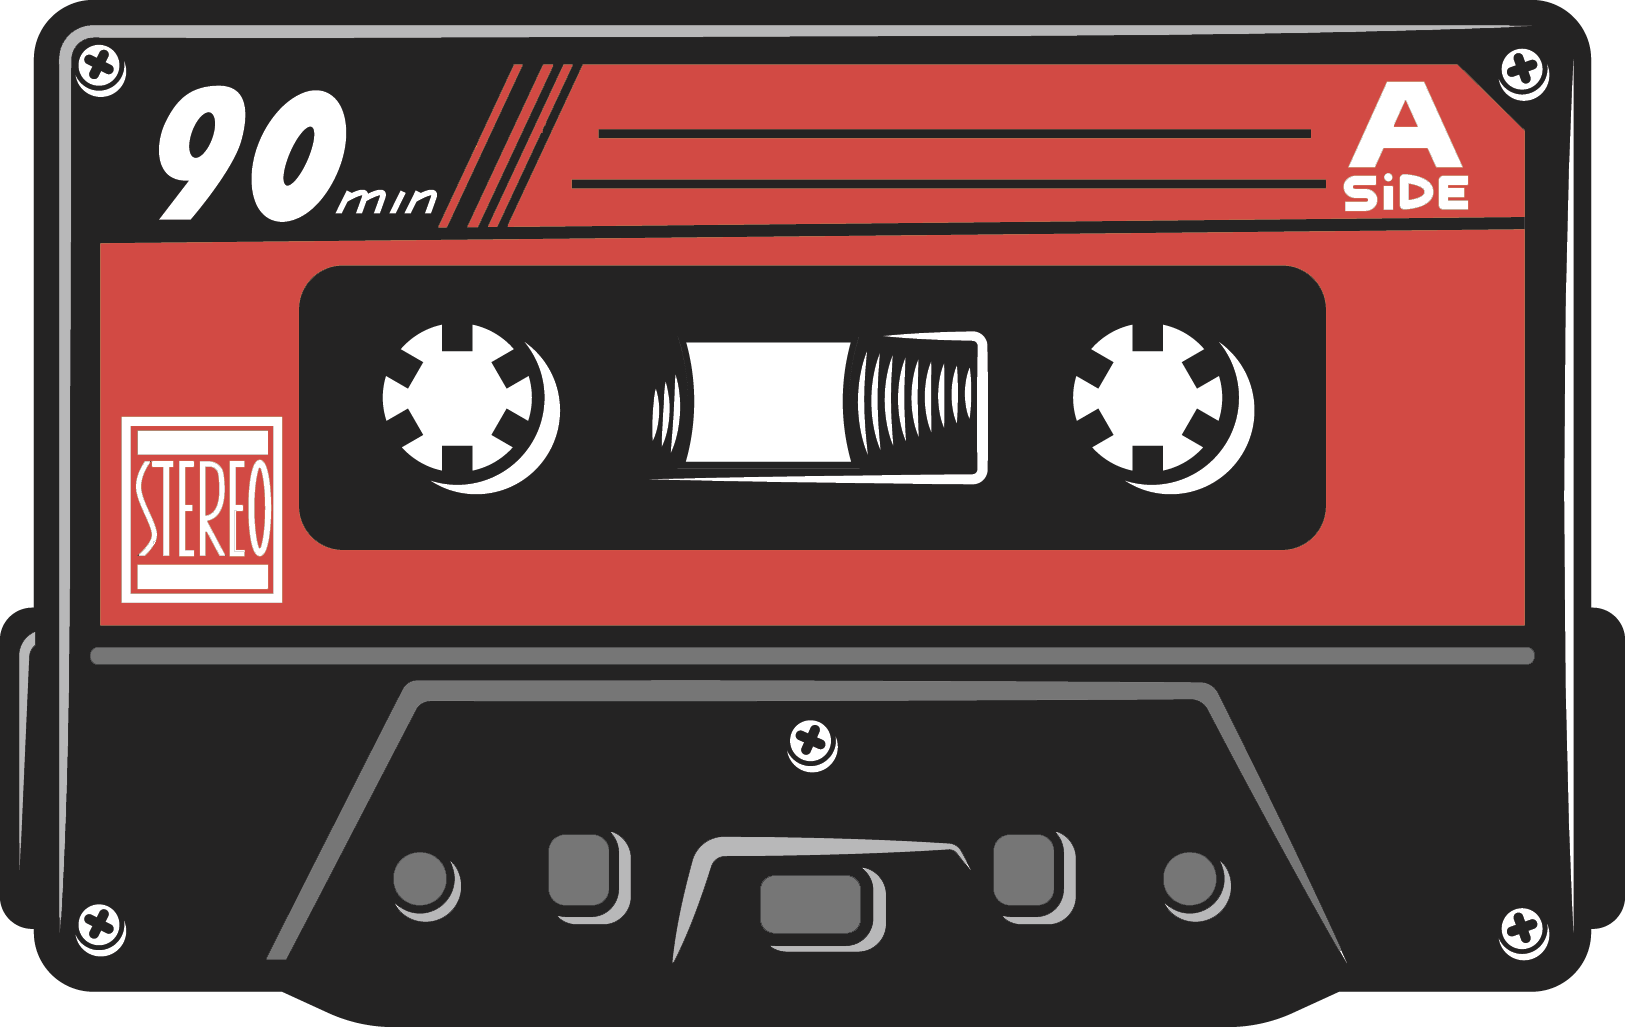
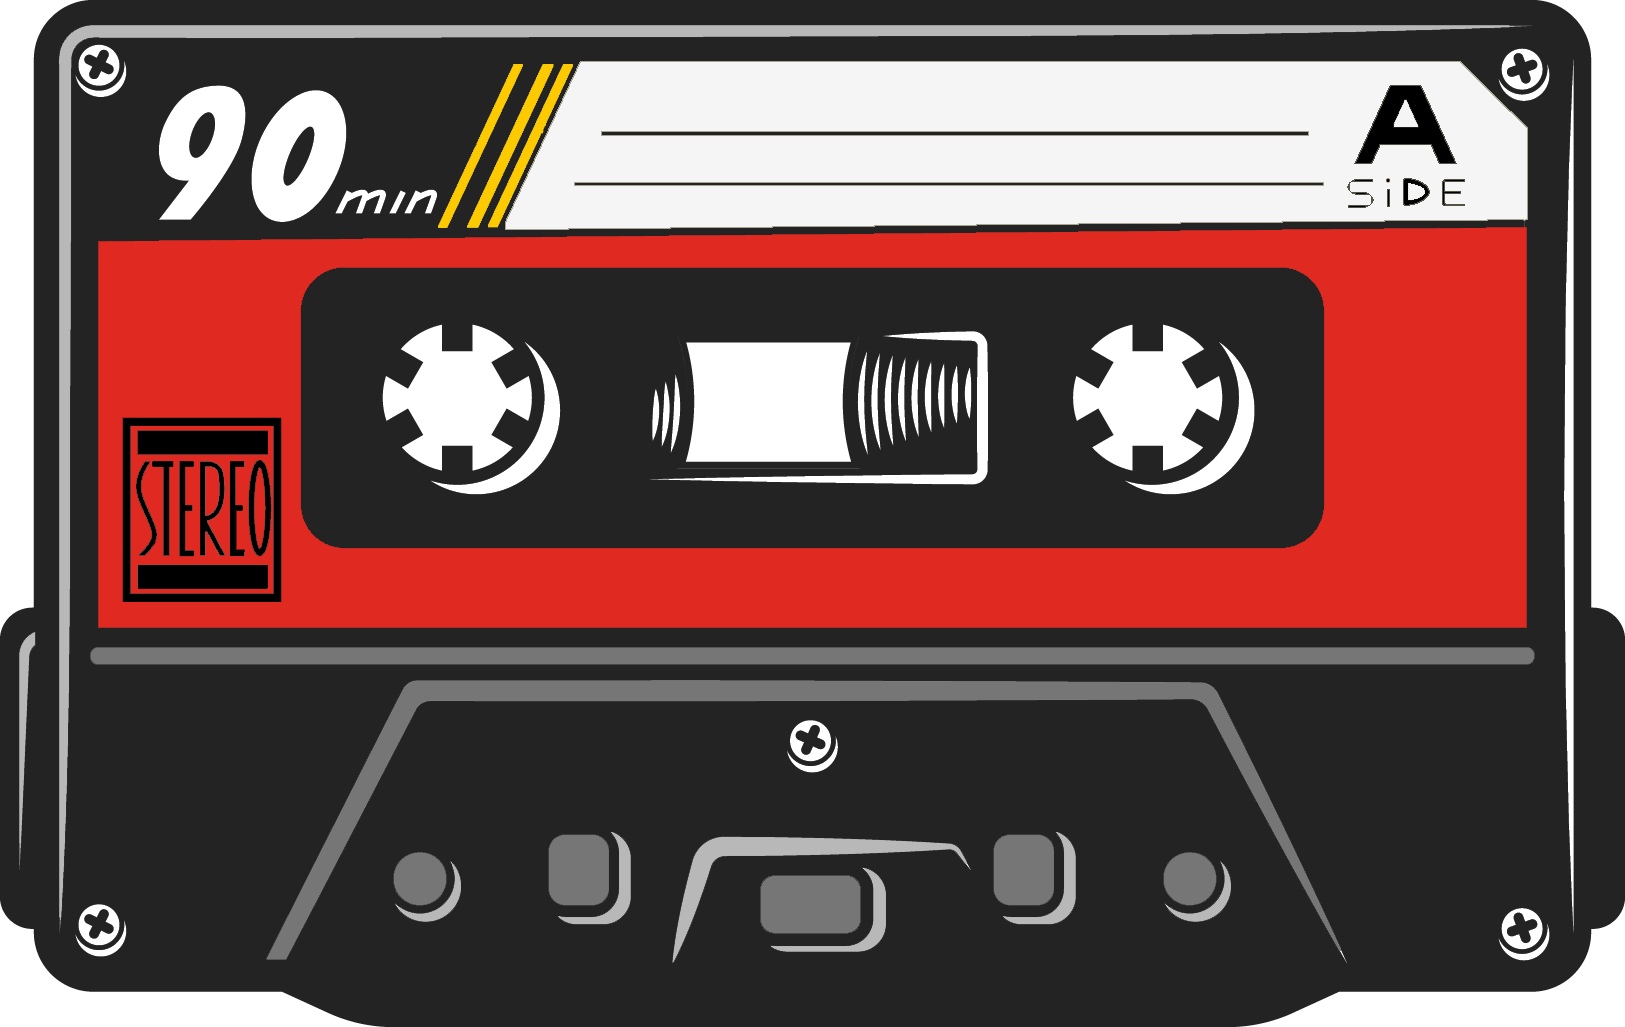
added new descript and pics to gallery, changed tapes color

Changed region(s): [[0.0615, 0.0623, 0.9538, 0.6232]]

diff --git a/styles/main.css b/styles/main.css
@@ -1,14 +1,10 @@
 @import url('https://fonts.googleapis.com/css2?family=Martian+Mono:wght@100..800&family=Open+Sans:ital,wght@0,300..800;1,300..800&display=swap');
+@import url('https://fonts.googleapis.com/css2?family=Martian+Mono:wght@100..800&family=Open+Sans:ital,wght@0,300..800;1,300..800&family=Permanent+Marker&display=swap');
 @import url('https://fonts.googleapis.com/css2?family=Abel&display=swap');
 
 @font-face {
     font-family: 'Vintage_font';
     src: url(../fonts/Vintage_font.otf) format('opentype');
-}
-
-@font-face {
-    font-family: 'Marker_font';
-    src: url(../fonts/Marker_font.otf) format('opentype');
 }
 
 :root {
@@ -51,7 +47,8 @@
 
     --textCuttedFontColor: #ffb756;
 
-    --redTapesFontColor: rgb(255, 255, 255);
+    --redTapesFontColor: rgb(65, 255, 151);
+    --greenTapesFontColor: rgb(255, 230, 0);
     --tapesFontColor: rgb(22, 22, 22);
 
     --projectWindowOuterPanelColor: rgb(242, 168, 0);
@@ -873,17 +870,12 @@ main {
 
 .tapes div p {
     position: absolute;
-    font-family: 'Marker_font', sans-serif;
+    font-family: 'Permanent Marker', sans-serif;
     font-weight: 200;
-    font-size: calc(var(--part) * 0.35);
+    font-size: calc(var(--part) * 0.24);
     top: 7%;
     left: 35%;
     color: var(--tapesFontColor);
-}
-
-.tapes div:nth-child(6) p,
-.tapes div:nth-child(8) p {
-    color: var(--redTapesFontColor);
 }
 
 /* PROJECTS */

diff --git a/index.html b/index.html
@@ -470,19 +470,19 @@
 
             <div class="tapes" id="tapes">
                 <div><img src="images/content_images/tape_orange.png" alt="tape" class="tape t1">
-                    <p>Empty tape</p>
+                    <p>Codepen</p>
                 </div>
                 <div><img src="images/content_images/tape_green.png" alt="tape" class="tape t2">
-                    <p>Empty tape</p>
+                    <p>3D art</p>
                 </div>
                 <div><img src="images/content_images/tape_red.png" alt="tape" class="tape t3">
-                    <p>DIY furniture</p>
+                    <p>DIY projects</p>
                 </div>
                 <div><img src="images/content_images/tape_white.png" alt="tape" class="tape t4">
-                    <p>Repair service</p>
+                    <p>Graphic design</p>
                 </div>
                 <div><img src="images/content_images/tape_orange.png" alt="tape" class="tape t5">
-                    <p>Repair service</p>
+                    <p>Graphic design</p>
                 </div>
                 <div>
                     <img src="images/content_images/tape_red.png" alt="tape" class="tape t6">
